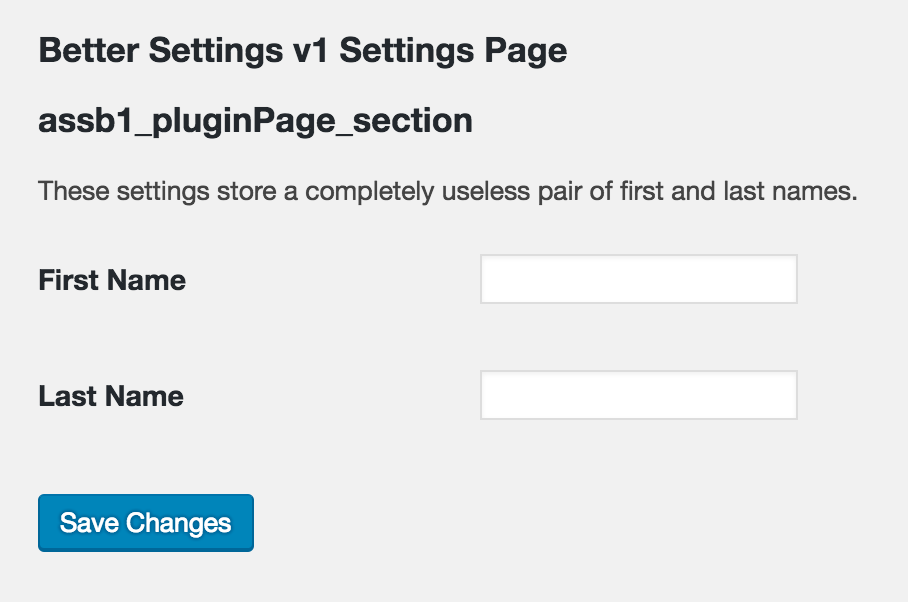
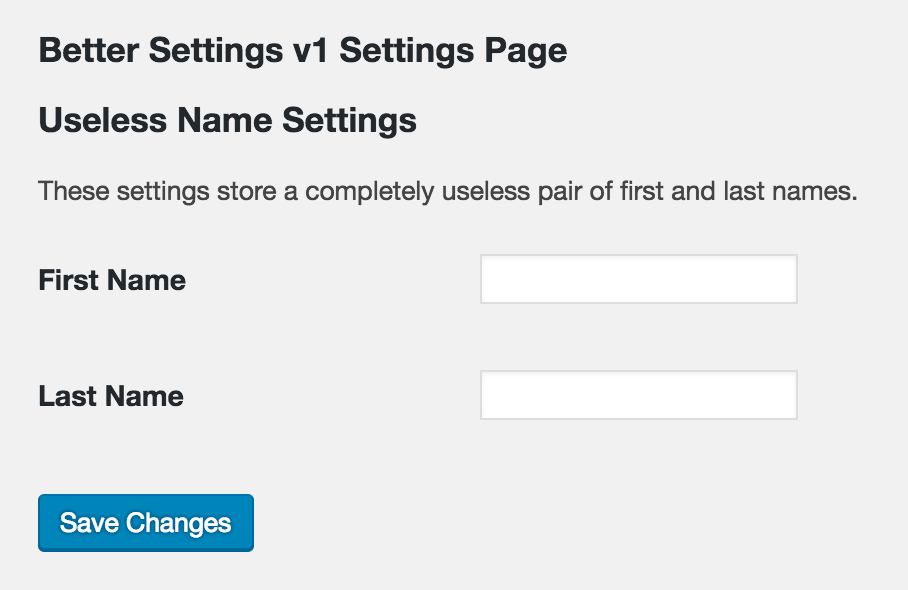
Fix section title.

diff --git a/better-settings-v1.php b/better-settings-v1.php
@@ -17,7 +17,7 @@
  * Plugin Name: Better Settings v1
  * Plugin URI:  https://www.alainschlesser.com/config-files-for-reusable-code/
  * Description: Example Code: Settings Page - Better Implementation v1
- * Version:     0.1.0
+ * Version:     0.1.1
  * Author:      Alain Schlesser
  * Author URI:  https://www.alainschlesser.com/
  * Text Domain: as-settings-better-v1

diff --git a/src/SettingsPage.php b/src/SettingsPage.php
@@ -172,7 +172,7 @@ class SettingsPage {
 	protected function add_section( $section_data, $section_name, $args ) {
 		add_settings_section(
 			$section_name,
-			$section_name,
+			$section_data['title'],
 			function () use ( $section_data ) {
 				if ( array_key_exists( 'view', $section_data ) ) {
 					$view = new View( $section_data['view'] );
